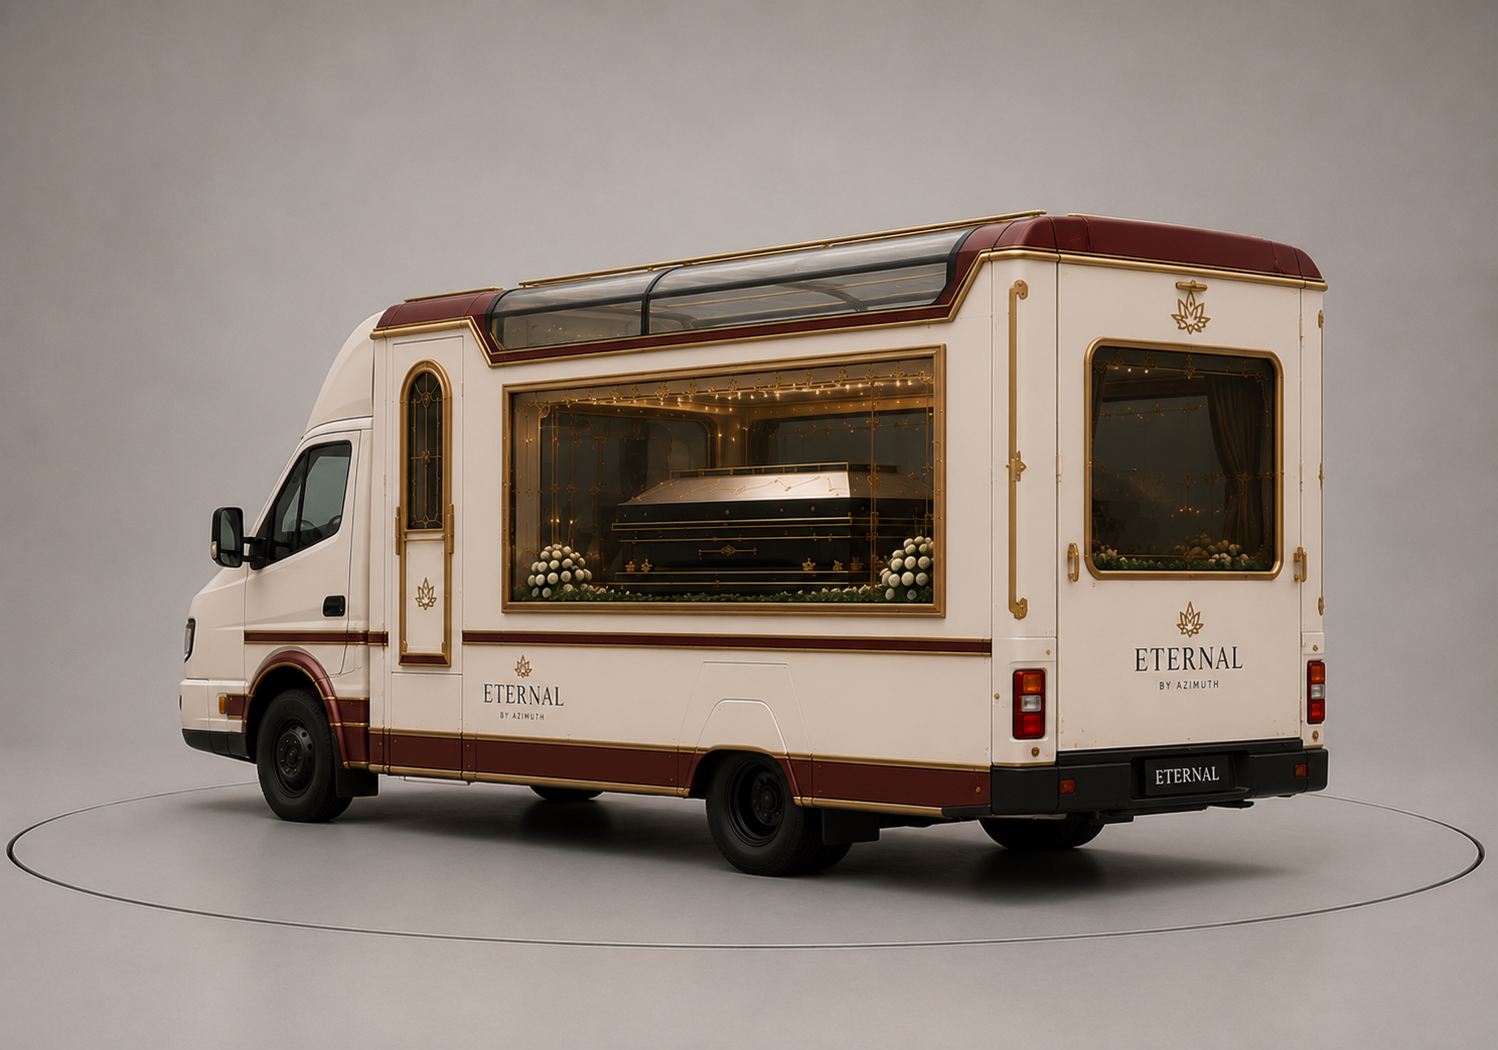
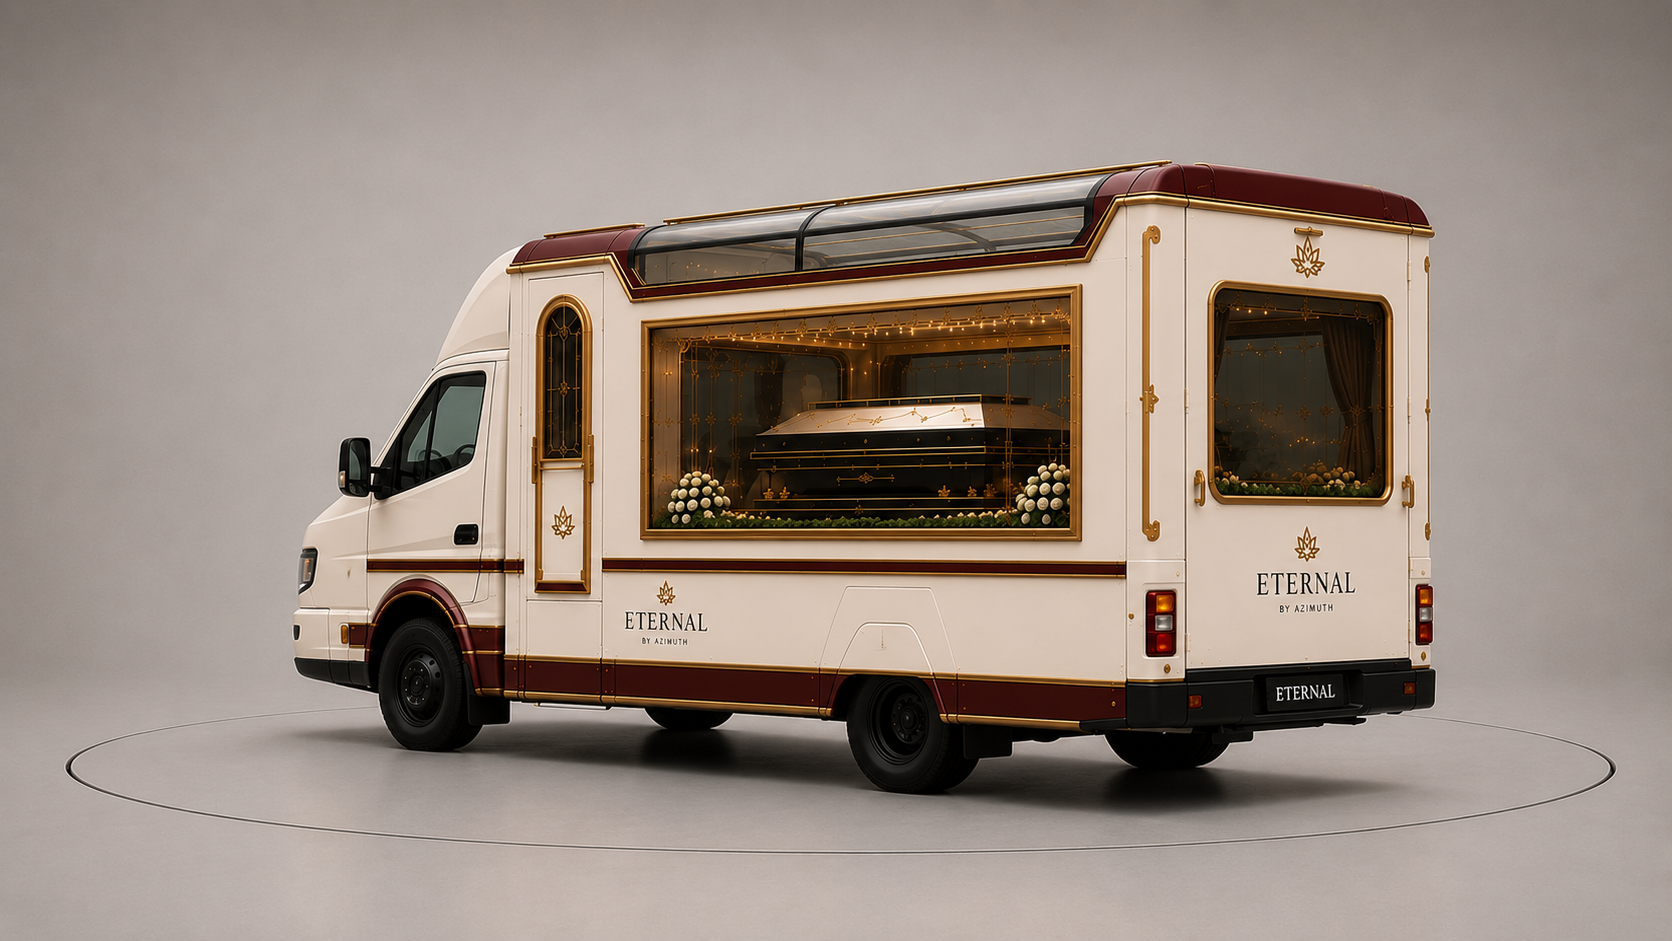
new commit

Changed region(s): [[0.0921, 0.1541, 0.8905, 0.9245], [0.8905, 0.7705, 1.0, 0.8629], [0.0, 0.7705, 0.1228, 0.8629]]

diff --git a/src/pages/Home.tsx b/src/pages/Home.tsx
@@ -4,7 +4,7 @@ import { ETERNAL_DATA } from '../data/eternalData';
 import { TextReveal } from '../components/TextReveal';
 import { TiltCard } from '../components/TiltCard';
 import { Counter } from '../components/Counter';
-import { VehicleInteractiveViewer } from '../components/VehicleInteractiveViewer';
+import heroTruckImg from '../assets/images/ChatGPT Image Jul 30, 2026, 04_57_42 PM.png';
 import { Shield, Sparkles, VolumeX, ShieldCheck, ChevronRight, ArrowRight, Check, Building2, HeartHandshake, Landmark, Users } from 'lucide-react';
 
 interface HomeProps {
@@ -119,14 +119,77 @@ export const Home: React.FC<HomeProps> = ({ setActiveTab, onOpenB2BModal, onOpen
 
             </motion.div>
 
-            {/* ─── RIGHT: Interactive Vehicle Showcase Viewer ─── */}
+            {/* ─── RIGHT: Hero Truck Image with Premium Effects ─── */}
             <motion.div
               initial={{ opacity: 0, x: 50, scale: 0.95 }}
               animate={{ opacity: 1, x: 0, scale: 1 }}
               transition={{ duration: 1.2, delay: 0.4, ease: 'easeOut' }}
-              className="w-full relative z-20"
+              className="w-full relative z-20 flex items-end justify-center"
             >
-              <VehicleInteractiveViewer />
+              {/* ── Outer deep gold radial glow ── */}
+              <div className="absolute top-1/2 left-1/2 -translate-x-1/2 -translate-y-1/2 w-[90%] h-[70%] rounded-full pointer-events-none"
+                style={{ background: 'radial-gradient(ellipse at center, rgba(212,175,55,0.18) 0%, rgba(212,175,55,0.06) 45%, transparent 75%)', filter: 'blur(40px)' }}
+              />
+
+              {/* ── Inner bright highlight ring ── */}
+              <div className="absolute top-1/2 left-1/2 -translate-x-1/2 -translate-y-1/2 w-[60%] h-[50%] rounded-full pointer-events-none"
+                style={{ background: 'radial-gradient(ellipse at center, rgba(255,220,100,0.12) 0%, transparent 70%)', filter: 'blur(20px)' }}
+              />
+
+              {/* ── Floating animated truck image ── */}
+              <motion.div
+                animate={{ y: [0, -12, 0] }}
+                transition={{ duration: 4, repeat: Infinity, ease: 'easeInOut' }}
+                className="relative z-10 w-full max-w-2xl"
+                style={{ filter: 'drop-shadow(0 40px 80px rgba(0,0,0,0.55)) drop-shadow(0 0 50px rgba(212,175,55,0.12))' }}
+              >
+                {/* Shimmer sweep overlay */}
+                <div className="absolute inset-0 z-20 overflow-hidden rounded-xl pointer-events-none">
+                  <div
+                    className="absolute top-0 -left-full h-full w-1/3 opacity-30"
+                    style={{
+                      background: 'linear-gradient(105deg, transparent 40%, rgba(255,220,100,0.6) 50%, transparent 60%)',
+                      animation: 'shimmerSweep 5s ease-in-out infinite',
+                    }}
+                  />
+                </div>
+
+                <img
+                  src={heroTruckImg}
+                  alt="Eternal Luxury Hearse — India's First Ultra-Premium Funeral Vehicle"
+                  className="w-full"
+                />
+              </motion.div>
+
+              {/* ── Ground reflection strip ── */}
+              <div className="absolute bottom-0 left-1/2 -translate-x-1/2 w-[80%] h-[30px] pointer-events-none"
+                style={{ background: 'radial-gradient(ellipse at center, rgba(212,175,55,0.25) 0%, transparent 75%)', filter: 'blur(8px)' }}
+              />
+
+              {/* ── Decorative gold particle dots ── */}
+              {[
+                { top: '15%', left: '8%', size: 3, delay: '0s' },
+                { top: '25%', right: '6%', size: 2, delay: '0.8s' },
+                { top: '60%', left: '4%', size: 2, delay: '1.6s' },
+                { top: '75%', right: '10%', size: 3, delay: '0.4s' },
+                { top: '40%', right: '2%', size: 1.5, delay: '2s' },
+                { top: '10%', right: '18%', size: 1.5, delay: '1.2s' },
+              ].map((p, i) => (
+                <div
+                  key={i}
+                  className="absolute rounded-full bg-gold-400 pointer-events-none"
+                  style={{
+                    top: p.top,
+                    left: (p as any).left,
+                    right: (p as any).right,
+                    width: p.size,
+                    height: p.size,
+                    opacity: 0.6,
+                    animation: `particlePulse 3s ease-in-out ${p.delay} infinite`,
+                  }}
+                />
+              ))}
+
             </motion.div>
 
           </div>

diff --git a/index.html b/index.html
@@ -24,7 +24,7 @@
     <!-- Google Fonts -->
     <link rel="preconnect" href="https://fonts.googleapis.com">
     <link rel="preconnect" href="https://fonts.gstatic.com" crossorigin>
-    <link href="https://fonts.googleapis.com/css2?family=Bodoni+Moda:ital,opsz,wght@0,6..96,500;0,6..96,600;0,6..96,700;0,6..96,800;1,6..96,500&family=Cinzel:wght@500;600;700;800;900&family=Plus+Jakarta+Sans:wght@300;400;500;600;700&family=Syne:wght@600;700;800&display=swap" rel="stylesheet">
+    <link href="https://fonts.googleapis.com/css2?family=Cormorant+Garamond:ital,wght@0,400;0,500;0,600;0,700;1,400;1,500;1,600&family=Cinzel:wght@500;600;700;800;900&family=Plus+Jakarta+Sans:wght@300;400;500;600;700&family=Syne:wght@600;700;800&display=swap" rel="stylesheet">
   </head>
   <body class="bg-obsidian-900 text-slate-100 font-sans antialiased selection:bg-gold-500/30 selection:text-gold-200">
     <div id="root"></div>

diff --git a/src/index.css b/src/index.css
@@ -11,6 +11,19 @@
   }
 }
 
+/* ── Hero Truck Image Keyframe Animations ── */
+@keyframes shimmerSweep {
+  0%   { left: -60%; opacity: 0; }
+  20%  { opacity: 0.4; }
+  60%  { opacity: 0.3; }
+  100% { left: 130%; opacity: 0; }
+}
+
+@keyframes particlePulse {
+  0%, 100% { transform: scale(1);   opacity: 0.6; }
+  50%       { transform: scale(2.2); opacity: 0.15; }
+}
+
 /* ========================================================================= */
 /* ULTRA-LUXURY LIGHT THEME (Ivory, Pearl & Royal Gold)                      */
 /* ========================================================================= */

diff --git a/tailwind.config.js b/tailwind.config.js
@@ -32,7 +32,7 @@ export default {
         blush: '#F5EFE6',
       },
       fontFamily: {
-        serif: ['"Bodoni Moda"', 'Georgia', 'serif'],
+        serif: ['"Cormorant Garamond"', 'Georgia', 'serif'],
         cinzel: ['"Cinzel"', 'serif'],
         syne: ['"Syne"', 'sans-serif'],
         sans: ['"Plus Jakarta Sans"', 'Inter', 'system-ui', 'sans-serif'],
